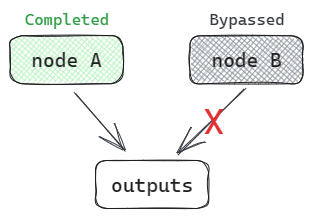
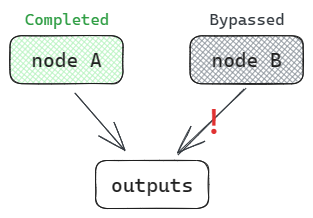
change the picture and fix expressions

diff --git a/docs/how-to-guides/add-conditional-control-to-a-flow.md b/docs/how-to-guides/add-conditional-control-to-a-flow.md
@@ -47,11 +47,11 @@ activate:
 ::::
 
 ### Further details and important notes
-1. If the node using the python tool has an input that references a node that may be bypassed, please provide a default value for this input. If there is no default value for input, the output of the bypassed node will be set to None.
+1. If the node using the python tool has an input that references a node that may be bypassed, please provide a default value for this input whenever possible. If there is no default value for input, the output of the bypassed node will be set to None.
 
     ![provide_default_value](../media/how-to-guides/conditional-flow-with-activate/provide_default_value.png)
 
-2. Please avoid directly connecting nodes that might be bypassed to the flow's outputs. This is not recommended because it will lead to meaningless flow output. If it is connected, the output will be None and a warning will be raised.
+2. It is not recommended to directly connect nodes that might be bypassed to the flow's outputs. If it is connected, the output will be None and a warning will be raised.
 
     ![output_bypassed](../media/how-to-guides/conditional-flow-with-activate/output_bypassed.png)
 

diff --git a/src/promptflow/CHANGELOG.md b/src/promptflow/CHANGELOG.md
@@ -10,11 +10,6 @@
 ### Bugs Fixed
 
 - [SDK/CLI] Keep original format in run output.jsonl.
-- [Executor] Fix failure when node refers bypassed node.
-
-### Improvements
-
-- [Executor] Set output of bypassed node as None.
 
 ## 0.1.0b8 (2023.10.26)
 
